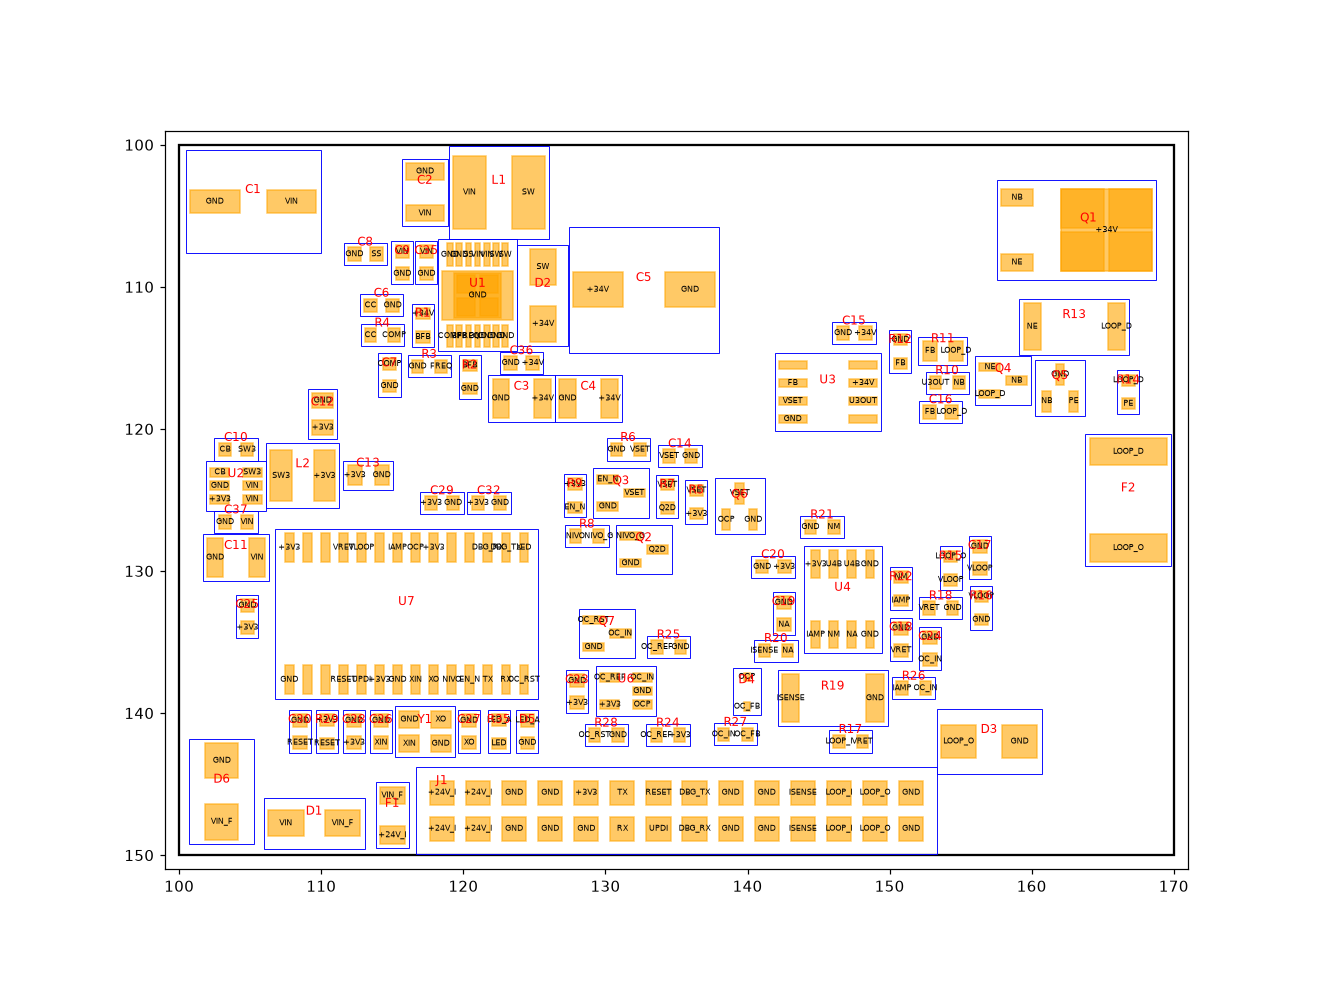
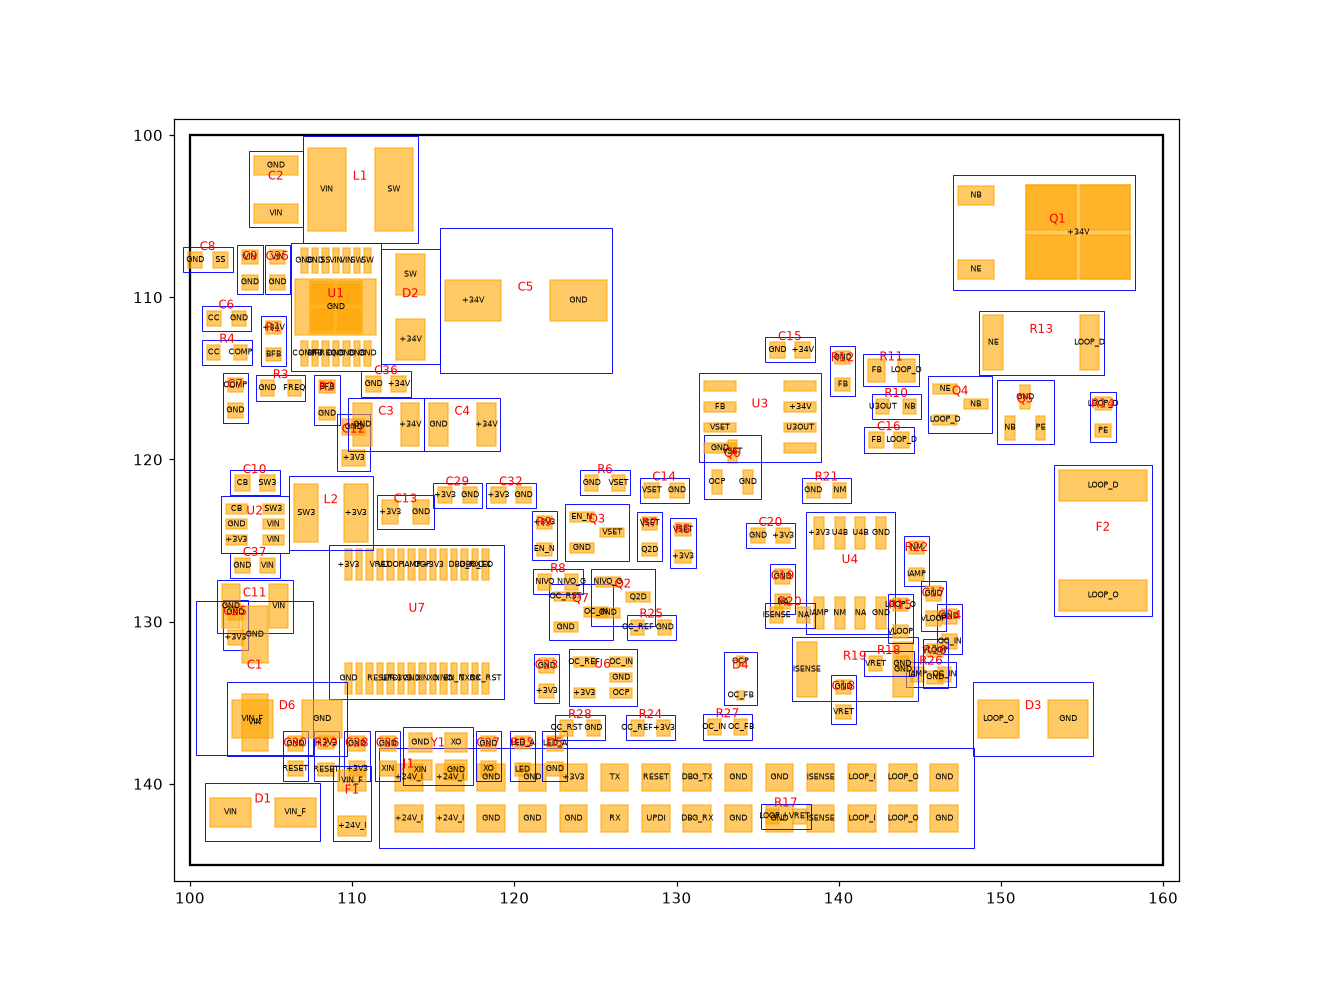
WIP loop module PCB: shrink to 60x45 mm, MCU in SSOP-28
Critical blocks (boost and buck cores with their hand-drawn power paths,
output stage, header with input and shunt) are shifted as units; the rest
is still to be placed by postavi.py. Not routed, overlaps remain.

Changed region(s): [[0.0932, 0.1212, 0.9008, 0.9091]]

diff --git a/apollo-loop-module/hardware/pcb/make_pcb.py b/apollo-loop-module/hardware/pcb/make_pcb.py
@@ -134,13 +134,13 @@ P = {
     'Q6': (SOT23, '2N7002', {'1': 'OCP', '2': 'GND', '3': 'VSET'}),
     'Q7': (SOT23, '2N7002', {'1': 'OC_RST', '2': 'GND', '3': 'OC_IN'}),
     'R28': (R0603, '100k', {'1': 'OC_RST', '2': 'GND'}),
-    # ---- MCU AVR64DD28-I/SO (SOIC-28), kristal 16 MHz. Pinovi po DS40002315A (prelim.), slika 2-1 + tabela 3-1:
+    # ---- MCU AVR64DD28-I/SS (SSOP-28, isti raspored pinova kao SOIC-28), kristal 16 MHz. Pinovi po DS40002315A (prelim.), slika 2-1 + tabela 3-1:
     #  1 PA7 LED (alt: AC0 OUT za osciloskop) | 2 PC0 DBG_TX, 3 PC1 DBG_RX (USART1 default) | 6 VDDIO2 = 3V3
     #  7 PD1 OCP (ulaz) | 8 PD2 IAMP = AC0 AINP0 (prag DACREF) i ADC AIN2 | 10 PD4 VLOOP AIN4 | 11 PD5 VRET AIN5
     #  14, 20 VDD | 15, 21 GND | 18 PF6 RESET | 19 PF7 UPDI | 22/23 PA0/PA1 XTALHF1/2
     #  24 PA2 NIVO (TCA0 WO2 / TCB0 WO) | 25 PA3 EN_N | 26/27 PA4/PA5 TX/RX (USART0 ALT1) | 28 PA6 OC_RST
     #  slobodni (NC): 4 PC2, 5 PC3, 9 PD3, 12 PD6 (DAC OUT), 13 PD7 (VREFA), 16 PF0, 17 PF1
-    'U7': (('Package_SO', 'SOIC-28W_7.5x17.9mm_P1.27mm'), 'AVR64DD28-I/SO',
+    'U7': (('Package_SO', 'SSOP-28_5.3x10.2mm_P0.65mm'), 'AVR64DD28-I/SS',
            {'1': 'LED', '2': 'DBG_TX', '3': 'DBG_RX', '6': '+3V3', '7': 'OCP', '8': 'IAMP', '10': 'VLOOP',
             '11': 'VRET', '14': '+3V3', '15': 'GND', '18': 'RESET', '19': 'UPDI', '20': '+3V3', '21': 'GND',
             '22': 'XIN', '23': 'XO', '24': 'NIVO', '25': 'EN_N', '26': 'TX', '27': 'RX', '28': 'OC_RST'}),
@@ -172,51 +172,51 @@ DOLE = {'J1'}
 
 POZ = {
     # ulaz i boost (gore)
-    'F1': (115, 147.2, 90), 'D1': (109.5, 147.75, 0), 'C1': (105.2, 104, 180), 'C2': (117.3, 103.35, 90),
-    'U1': (121, 110.6, 270), 'L1': (122.5, 103.35, 0), 'D2': (125.6, 110.6, 90), 'C3': (124.1, 117.85, 180), 'C4': (128.8, 117.85, 180),
-    'C5': (132.7, 110.2, 0), 'C9': (115.7, 108.3, 270), 'R1': (117.15, 112.7, 270), 'R2': (120.45, 116.35, 270), 'R3': (117.6, 115.6, 180),
-    'R4': (114.3, 113.4, 180), 'C6': (114.25, 111.3, 0), 'C7': (114.8, 116.2, 270), 'C8': (113.1, 107.7, 180),
+    'F1': (110, 141.2, 90), 'D1': (104.5, 141.75, 0), 'C1': (104, 133.5, 90), 'C2': (105.3, 103.35, 90),
+    'U1': (109, 110.6, 270), 'L1': (110.5, 103.35, 0), 'D2': (113.6, 110.6, 90), 'C3': (112.1, 117.85, 180), 'C4': (116.8, 117.85, 180),
+    'C5': (120.7, 110.2, 0), 'C9': (103.7, 108.3, 270), 'R1': (105.15, 112.7, 270), 'R2': (108.45, 116.35, 270), 'R3': (105.6, 115.6, 180),
+    'R4': (102.3, 113.4, 180), 'C6': (102.25, 111.3, 0), 'C7': (102.8, 116.2, 270), 'C8': (101.1, 107.7, 180),
     # buck 3V3 (levo)
     'U2': (104, 124, 0), 'C10': (104, 121.45, 0), 'L2': (108.7, 123.3, 0), 'C11': (104, 129.05, 180), 'C12': (110.1, 118.95, 90),
     'C13': (113.3, 123.25, 0),
     # VSET
-    'R5': (136.4, 125.15, 90), 'R6': (131.6, 121.45, 180), 'C14': (135.25, 121.9, 0), 'R7': (134.35, 124.75, 270), 'Q2': (132.7, 128.5, 0),
-    'R8': (128.7, 127.55, 0), 'Q3': (131.1, 124.5, 0), 'R9': (127.85, 124.7, 90),
+    'R5': (130.4, 125.15, 90), 'R6': (125.6, 121.45, 180), 'C14': (129.25, 121.9, 0), 'R7': (128.35, 124.75, 270), 'Q2': (126.7, 128.5, 0),
+    'R8': (122.7, 127.55, 0), 'Q3': (125.1, 124.5, 0), 'R9': (121.85, 124.7, 90),
     # izlazni stepen
-    'U3': (145.65, 117.4, 0), 'C15': (147.5, 113.25, 180), 'R10': (154.05, 116.75, 0), 'R11': (153.75, 114.5, 180), 'C16': (153.6, 118.8, 180),
-    'R12': (150.75, 114.55, 90), 'Q1': (164, 106, 0), 'R13': (163, 112.8, 0), 'Q4': (158, 116.6, 0), 'Q5': (162, 117.1, 90),
-    'R14': (166.8, 117.4, 90),
+    'U3': (135.15, 117.4, 0), 'C15': (137, 113.25, 180), 'R10': (143.55, 116.75, 0), 'R11': (143.25, 114.5, 180), 'C16': (143.1, 118.8, 180),
+    'R12': (140.25, 114.55, 90), 'Q1': (153.5, 106, 0), 'R13': (152.5, 112.8, 0), 'Q4': (147.5, 116.6, 0), 'Q5': (151.5, 117.1, 90),
+    'R14': (156.3, 117.4, 90),
     # petlja
-    'F2': (166.8, 125, 270), 'D3': (157, 142, 0), 'R15': (154.3, 129.8, 270), 'R16': (156.45, 132.6, 270), 'C17': (156.35, 129.05, 90),  'R17': (147.25, 142, 0), 'R18': (153.6, 132.6, 0), 'C18': (150.8, 134.8, 90),
+    'F2': (156.3, 125, 270), 'D3': (152, 136, 0), 'R15': (143.8, 129.8, 270), 'R16': (145.95, 132.6, 270), 'C17': (145.85, 129.05, 90),  'R17': (136.75, 142, 0), 'R18': (143.1, 132.6, 0), 'C18': (140.3, 134.8, 90),
     # merenje i zaštita
-    'R19': (146, 138.95, 0), 'R20': (142, 135.6, 0), 'C19': (142.55, 133, 90), 'U4': (146.7, 132, 90), 'C20': (141.8, 129.7, 180),
-    'R21': (145.25, 126.9, 180), 'R22': (150.8, 131.25, 270), 
-    'U6': (131.45, 138.45, 180), 'C23': (128, 138.5, 90), 'R24': (134.4, 141.55, 180), 'R25': (134.45, 135.35, 0),
-    'R26': (151.7, 138.25, 0), 'C24': (152.85, 135.45, 90), 'D4': (139.95, 138.5, 90), 'R27': (139.15, 141.5, 180), 'Q6': (139.45, 125.45, 90),
-    'Q7': (130.1, 134.4, 0), 'R28': (130.05, 141.55, 0),
+    'R19': (141, 132.95, 0), 'R20': (137, 129.6, 0), 'C19': (136.55, 128, 90), 'U4': (140.7, 127, 90), 'C20': (135.8, 124.7, 180),
+    'R21': (139.25, 121.9, 180), 'R22': (144.8, 126.25, 270), 
+    'U6': (125.45, 133.45, 180), 'C23': (122, 133.5, 90), 'R24': (128.4, 136.55, 180), 'R25': (128.45, 130.35, 0),
+    'R26': (145.7, 133.25, 0), 'C24': (146.85, 130.45, 90), 'D4': (133.95, 133.5, 90), 'R27': (133.15, 136.5, 180), 'Q6': (133.45, 120.45, 90),
+    'Q7': (124.1, 129.4, 0), 'R28': (124.05, 136.55, 0),
     # MCU AVR64DD28 (grubo – raspored u toku)
     
     
     
     
-    'C36': (124.1, 115.35, 180),
-    'C35': (117.4, 108.3, 270),
+    'C36': (112.1, 115.35, 180),
+    'C35': (105.4, 108.3, 270),
     'C37': (104, 126.55, 180),
     
     
     
     
     # letvica 2x14 (donja strana), simetrično na sredini donje ivice: pinovi x 113,49..146,51; neparni red y=140,6
-    'J1': (118.49, 145.6, 90),
+    'J1': (113.49, 139.6, 90),
     # U7 rot 270: pinovi 1-14 gornji red (y 128,35; x 124,25 -> 107,75), 15-28 donji red (y 137,65; x 107,75 -> 124,25)
-    'U7': (116, 133, 270),
-    'Y1': (117.3, 141.3, 0), 'C26': (114.2, 141.3, 90), 'C27': (120.4, 141.3, 90),   # XIN 22 / XO 23 dole
-    'C28': (112.3, 141.3, 90),                                                       # VDD 20 / GND 21
-    'R29': (110.4, 141.3, 90), 'C30': (108.5, 141.3, 90),                             # RESET 18
-    'R35': (122.5, 141.3, 90), 'D5': (124.5, 141.3, 90),                              # LED (pin 1 gore desno)
-    'C25': (104.8, 133.2, 90),                                                       # VDD 14 / GND 15 levo
-    'C29': (118.5, 125.2, 0), 'C32': (121.8, 125.2, 0),                              # VDDIO2 6 gore
-    'D6': (103, 145.5, 90),                                                          # TVS uz levu ivicu
+    'U7': (114, 130, 270),
+    'Y1': (115.3, 138.3, 0), 'C26': (112.2, 138.3, 90), 'C27': (118.4, 138.3, 90),   # XIN 22 / XO 23 dole
+    'C28': (110.3, 138.3, 90),                                                       # VDD 20 / GND 21
+    'R29': (108.4, 138.3, 90), 'C30': (106.5, 138.3, 90),                             # RESET 18
+    'R35': (120.5, 138.3, 90), 'D5': (122.5, 138.3, 90),                              # LED (pin 1 gore desno)
+    'C25': (102.8, 130.2, 90),                                                       # VDD 14 / GND 15 levo
+    'C29': (116.5, 122.2, 0), 'C32': (119.8, 122.2, 0),                              # VDDIO2 6 gore
+    'D6': (106, 136, 0),                                                          # TVS uz levu ivicu
 }
 
 KLASE = [
@@ -244,54 +244,64 @@ BLOKOVI = [
 # Ručno nacrtani strujni putevi prekidačkih napajanja (TI SLVSBD4E §10, SLVSE22B §11): najkraće i najšire moguće,
 # zaključani; Freerouting ih zadržava i rutira samo ostatak.  (mreža, [(sloj, x1, y1, x2, y2, širina)], [via])
 PREVODI = [
-    # boost SW čvor: SW pinovi 1,2 (gore desno na U1) -> L1 pad 2 -> anoda D2; petlja što manja (SW max 40 V!)
-    ('SW', [('F', 122.3, 107.6, 122.3, 106.2, 0.4), ('F', 122.95, 107.6, 122.95, 106.2, 0.4),
-            ('F', 122.3, 106.2, 124.6, 106.2, 0.8), ('F', 124.6, 106.2, 125.6, 106.2, 1.0),
-            ('F', 125.6, 106.2, 125.6, 108, 1.2)], []),
-    # VIN: C2 -> L1 pad 1 -> U1 VIN (3) i EN (4); C9/C35 uz VIN pin; ulaz od D1
-    ('VIN', [('F', 118, 104.8, 120, 104.8, 1.0), ('F', 121, 107.6, 121, 105.5, 0.4),
-             ('F', 121, 107.2, 121.65, 107.2, 0.35), ('F', 115.7, 107.5, 117.4, 107.5, 0.6),
-             ('F', 117.4, 107.5, 118.3, 106.3, 0.5), ('F', 118.3, 106.3, 119.6, 105.6, 0.5),
-             ('F', 109.2, 104, 115.7, 107.5, 0.8),   # C1 (47u, gore levo) -> C9/C35 -> L1
-             # buck VIN: pinovi 4,5 -> C37 (100n) -> C11 (10u)
-             ('F', 105.3, 124, 105.3, 126.5, 0.6), ('F', 105.3, 126.5, 105.5, 128.5, 0.6)], []),
-    # +34V: katoda D2 -> C36 -> C3; katoda -> C5 -> C4
-    ('+34V', [('F', 125.6, 113.5, 125.6, 117, 1.2), ('F', 126.2, 112, 128.2, 110.6, 1.0),
-              ('F', 130.3, 111.2, 130.3, 117, 1.0)], []),
-    # PGND: pinovi 11-14 -> masa C36 i C3 (zatvara izlaznu petlju), via na donju masu
-    ('GND', [('F', 121, 114, 122.95, 114, 0.35), ('F', 122.3, 114, 122.6, 117.8, 0.6),
-             # buck GND pin 2 -> C37 i C11 (oko FB pina sa leve strane)
-             ('F', 102.4, 124, 101.4, 124, 0.5), ('F', 101.4, 124, 101.4, 128.5, 0.5),
-             ('F', 101.4, 126.55, 103.2, 126.55, 0.5), ('F', 101.4, 128.5, 102.5, 128.5, 0.5)],
-     [(121.4, 115), (122.6, 119.8), (101.4, 125.3),
-      # termalne via u PowerPAD-u U1 (TI: thermal vias do donje mase)
-      (119.4, 109.8), (121, 109.8), (122.6, 109.8), (119.4, 111.4), (121, 111.4), (122.6, 111.4),
-      # masa šanta R19 i TVS D3 direktno na donju GND površinu
-      (148.96, 136.6), (159.15, 144.4)]),
-    # ulaz: F1 -> D1 (24 V dolazi sa letvice J1 dole)
-    # buck: SW pin 6 -> L2, C10 (CB) na SW i na CB pin 1
-    ('SW3', [('F', 105.4, 123.05, 107, 123.05, 0.6), ('F', 104.8, 121.6, 105.2, 122.9, 0.4)], []),
-    ('CB', [('F', 103.2, 121.5, 103, 123, 0.4)], []),
-    # ---- ulaz (dobra praksa: zaštita odmah na konektoru): 24V pinovi 1-4 -> F1 -> D1 (obrnuti polaritet)
-    ('+24V_IN', [('F', 118.49, 145.6, 118.49, 148.14, 1.0), ('F', 118.49, 148.14, 121.03, 148.14, 1.0),
-                 ('F', 121.03, 145.6, 121.03, 148.14, 1.0), ('F', 115, 148.6, 118.49, 148.14, 1.0)], []),
-    ('VIN_F', [('F', 115, 145.8, 111.6, 147.6, 1.0)], []),
-    # ---- izlazni stepen: emiter Q1 -> R13 (široko); Q4 meri pad na R13 posebnim (Kelvin) vodom sa pada
-    ('NE', [('F', 158.96, 108.28, 160.04, 111.5, 0.8), ('F', 157.4, 115.65, 159.8, 114.2, 0.3)], []),
-    # ---- petlja: R13 -> PTC F2 -> TVS D3 (uz konektor) -> LOOP_OUT pinovi 25/26
-    ('LOOP_DRV', [('F', 165.96, 114, 165.45, 114.9, 0.7), ('F', 165.45, 114.9, 165.45, 121, 0.7),
-                  ('F', 165.45, 116.57, 166.6, 116.57, 0.5)], []),
-    ('LOOP_OUT', [('F', 154.85, 142, 149.4, 142, 0.8),
-                  ('F', 149.4, 142, 149.4, 145.6, 0.8)], []),
-    # ---- merenje: ISENSE pinovi 21/22 -> šant R19; R20 uzima napon direktno sa pada šanta (Kelvin)
-    ('ISENSE', [('F', 143.89, 145.6, 143.04, 140, 1.0), ('F', 141.2, 135.6, 142.8, 137.6, 0.25)], []),
+    ('SW', [('F', 110.3, 107.6, 110.3, 106.2, 0.4),
+          ('F', 110.95, 107.6, 110.95, 106.2, 0.4),
+          ('F', 110.3, 106.2, 112.6, 106.2, 0.8),
+          ('F', 112.6, 106.2, 113.6, 106.2, 1.0),
+          ('F', 113.6, 106.2, 113.6, 108, 1.2)],
+     []),
+    ('VIN', [('F', 106, 104.8, 108, 104.8, 1.0),
+          ('F', 109, 107.6, 109, 105.5, 0.4),
+          ('F', 109, 107.2, 109.65, 107.2, 0.35),
+          ('F', 103.7, 107.5, 105.4, 107.5, 0.6),
+          ('F', 105.4, 107.5, 106.3, 106.3, 0.5),
+          ('F', 106.3, 106.3, 107.6, 105.6, 0.5),
+          ('F', 105.3, 124, 105.3, 126.5, 0.6),
+          ('F', 105.3, 126.5, 105.5, 128.5, 0.6)],
+     []),
+    ('+34V', [('F', 113.6, 113.5, 113.6, 117, 1.2),
+          ('F', 114.2, 112, 116.2, 110.6, 1.0),
+          ('F', 118.3, 111.2, 118.3, 117, 1.0)],
+     []),
+    ('GND', [('F', 109, 114, 110.95, 114, 0.35),
+          ('F', 110.3, 114, 110.6, 117.8, 0.6),
+          ('F', 102.4, 124, 101.4, 124, 0.5),
+          ('F', 101.4, 124, 101.4, 128.5, 0.5),
+          ('F', 101.4, 126.55, 103.2, 126.55, 0.5),
+          ('F', 101.4, 128.5, 102.5, 128.5, 0.5)],
+     [(109.4, 115), (110.6, 119.8), (101.4, 125.3), (107.4, 109.8), (109, 109.8), (110.6, 109.8), (107.4, 111.4), (109, 111.4), (110.6, 111.4), (143.96, 130.6), (154.15, 138.4)]),
+    ('SW3', [('F', 105.4, 123.05, 107, 123.05, 0.6),
+          ('F', 104.8, 121.6, 105.2, 122.9, 0.4)],
+     []),
+    ('CB', [('F', 103.2, 121.5, 103, 123, 0.4)],
+     []),
+    ('+24V_IN', [('F', 113.49, 139.6, 113.49, 142.14, 1.0),
+          ('F', 113.49, 142.14, 116.03, 142.14, 1.0),
+          ('F', 116.03, 139.6, 116.03, 142.14, 1.0),
+          ('F', 110, 142.6, 113.49, 142.14, 1.0)],
+     []),
+    ('VIN_F', [('F', 110, 139.8, 106.6, 141.6, 1.0)],
+     []),
+    ('NE', [('F', 148.46, 108.28, 149.54, 111.5, 0.8),
+          ('F', 146.9, 115.65, 149.3, 114.2, 0.3)],
+     []),
+    ('LOOP_DRV', [('F', 155.46, 114, 154.95, 114.9, 0.7),
+          ('F', 154.95, 114.9, 154.95, 121, 0.7),
+          ('F', 154.95, 116.57, 156.1, 116.57, 0.5)],
+     []),
+    ('LOOP_OUT', [('F', 149.85, 136, 144.4, 136, 0.8),
+          ('F', 144.4, 136, 144.4, 139.6, 0.8)],
+     []),
+    ('ISENSE', [('F', 138.89, 139.6, 138.04, 134, 1.0),
+          ('F', 136.2, 129.6, 137.8, 131.6, 0.25)],
+     []),
 ]
-X0, Y0, X1, Y1 = 100, 100, 170, 150
+X0, Y0, X1, Y1 = 100, 100, 160, 145
 
 # Dobra praksa za prekidačka napajanja: donja GND površina ispod konvertera ostaje neprekinuta
 # (povratna struja prekidačke petlje teče odmah ispod nje). Na B.Cu tu nisu dozvoljeni vodovi; via za masu jesu.
 MASA_B = [
-    ('boost', (115.0, 100.4, 130.5, 119.5)),   # U1, L1, D2, C3/C36, kompenzacija
+    ('boost', (103.0, 100.4, 118.5, 119.5)),   # U1, L1, D2, C3/C36, kompenzacija
     ('buck', (101.0, 120.5, 116.0, 131.0)),    # U2, L2, C10, C11, C37, C12/C13
 ]
 

diff --git a/apollo-loop-module/hardware/pcb/postavi.py b/apollo-loop-module/hardware/pcb/postavi.py
@@ -8,8 +8,8 @@ Pravila:
   - FIKSNO: jezgra prekidačkih napajanja sa ručno nacrtanim strujnim putevima (TI layout), izlazni stepen Q1/R13
     sa bakrom za hlađenje, letvica sa ulazom (F1, D1), TVS D3 i šant R19/R20 – oni su već po dobroj praksi
   - blokadni kondenzator je vezan za tačan pin napajanja svog IC-a (par velike težine)
-  - kristal, QSPI i USB imaju veću težinu (kratko); velike mreže (+3V3) manju; GND se ne računa (via u masu)
-  - oko RP2040 slobodan prsten 0,9 mm za izlaz vodova, oko ostalih delova 0,25 mm (prolaz za vod između delova)
+  - kristal i analogni čvorovi imaju veću težinu (kratko); velike mreže (+3V3) manju; GND se ne računa (via u masu)
+  - oko MCU (SSOP-28) slobodan prsten 0,6 mm za izlaz vodova, oko ostalih delova 0,25 mm (prolaz za vod)
 """
 import os
 import sys
@@ -24,7 +24,7 @@ import postavljac  # noqa: E402
 
 FIKSNO = {
     # boost jezgro (SW čvor, izlazna petlja, ulazni kondenzatori) – ručno nacrtani putevi
-    'U1', 'L1', 'D2', 'C36', 'C3', 'C4', 'C5', 'C2', 'C9', 'C35', 'C1',
+    'U1', 'L1', 'D2', 'C36', 'C3', 'C4', 'C5', 'C2', 'C9', 'C35',
     # buck jezgro
     'U2', 'C10', 'C37', 'C11', 'L2',
     # izlazni stepen i petlja (NE, LOOP_DRV ručno)
@@ -32,20 +32,19 @@ FIKSNO = {
     # letvica, ulaz, TVS i šant uz konektor
     'J1', 'F1', 'D1', 'D3', 'R19', 'R20',
 }
-# blokadni kondenzator -> (IC, pin napajanja)
+# blokadni kondenzator / kratka veza -> (IC, pin)   (AVR64DD28: VDD 14/20, VDDIO2 6, RESET 18, XTALHF 22/23)
 BLOKADA = {
-    'C28': ('U7', '10'), 'C29': ('U7', '33'), 'C30': ('U7', '48'), 'C31': ('U7', '1'), 'C32': ('U7', '44'),
-    'C38': ('U7', '42'), 'C39': ('U7', '43'), 'C40': ('U7', '22'), 'C33': ('U7', '50'), 'C41': ('U7', '23'),
-    'C34': ('U7', '45'), 'C25': ('U8', '8'), 'C20': ('U4', '8'), 'C21': ('U5', '5'), 'C23': ('U6', '5'),
-    'C15': ('U3', '7'), 'C12': ('L2', '2'), 'C13': ('L2', '2'), 'C26': ('Y1', '1'), 'C27': ('Y1', '3'),
+    'C25': ('U7', '14'), 'C28': ('U7', '20'), 'C29': ('U7', '6'), 'C32': ('U7', '20'),
+    'Y1': ('U7', '22'), 'R29': ('U7', '18'), 'C30': ('U7', '18'),
+    'C20': ('U4', '8'), 'C23': ('U6', '5'), 'C15': ('U3', '7'),
+    'C12': ('L2', '2'), 'C13': ('L2', '2'), 'C26': ('Y1', '1'), 'C27': ('Y1', '3'),
     'C8': ('U1', '5'), 'R2': ('U1', '9'), 'R4': ('U1', '8'), 'C7': ('U1', '8'), 'R3': ('U1', '10'),
-    'R32': ('U7', '21'), 'R33': ('U7', '47'), 'R34': ('U7', '46'),
+    'D6': ('F1', '2'), 'C1': ('D1', '1'),
 }
 TEZINA_BLOKADE = 6.0
-VAZNE = {'XIN': 3, 'XOUT': 3, 'XO': 3, 'QSCLK': 2.5, 'QSS': 2, 'QSD0': 2.5, 'QSD1': 2.5, 'QSD2': 2.5, 'QSD3': 2.5,
-         'USB_DP': 2.5, 'USB_DM': 2.5, 'BFB': 3, 'COMP': 3, 'CC': 2, 'FREQ': 2, 'SS': 2, 'FB': 2, 'VSET': 2,
-         'NA': 2, 'IAMP': 1.5, 'OC_IN': 1.5}
-PRSTEN = {'U7': 0.9, 'U8': 0.4, 'U3': 0.35, 'U4': 0.35, 'U5': 0.3, 'U6': 0.3}
+VAZNE = {'XIN': 3, 'XO': 3, 'BFB': 3, 'COMP': 3, 'CC': 2, 'FREQ': 2, 'SS': 2, 'FB': 2, 'VSET': 2,
+         'NA': 2, 'IAMP': 1.5, 'OC_IN': 1.5, 'RESET': 1.5, 'UPDI': 1.5}
+PRSTEN = {'U7': 0.6, 'U3': 0.35, 'U4': 0.35, 'U6': 0.3}
 PRSTEN_OST = 0.25
 
 

diff --git a/apollo-loop-module/hardware/pcb/razmakni.py b/apollo-loop-module/hardware/pcb/razmakni.py
@@ -11,8 +11,8 @@ import sys
 import make_pcb as m
 import pcbnew
 
-FIKSNO = {'U1', 'L1', 'D2', 'C36', 'C3', 'C4', 'C5', 'C2', 'C9', 'C35', 'C8', 'R1', 'R2', 'R3', 'R4', 'C6', 'C7',
-          'U2', 'C10', 'C37', 'C11', 'L2', 'C12', 'C13', 'J1', 'F1', 'D1', 'C1', 'Y1', 'C40', 'C26', 'C27', 'D3', 'U7', 'C28', 'C29', 'C30', 'C31', 'C32', 'C33', 'C34', 'C38', 'C39', 'C40', 'C41'}
+FIKSNO = {'U1', 'L1', 'D2', 'C36', 'C3', 'C4', 'C5', 'C2', 'C9', 'C35', 'U2', 'C10', 'C37', 'C11', 'L2',
+          'Q1', 'R13', 'Q4', 'R14', 'F2', 'J1', 'F1', 'D1', 'D3', 'R19', 'R20'}
 RAZMAK = 0.0      # minimalni razmak između courtyard-a (mm)
 KORAK = 0.05
 MAX_R = 12.0
